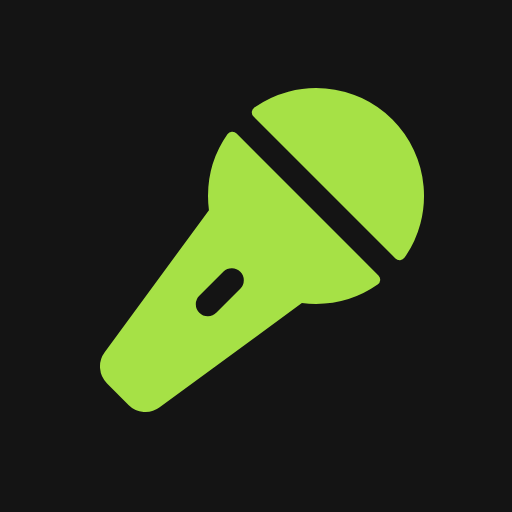
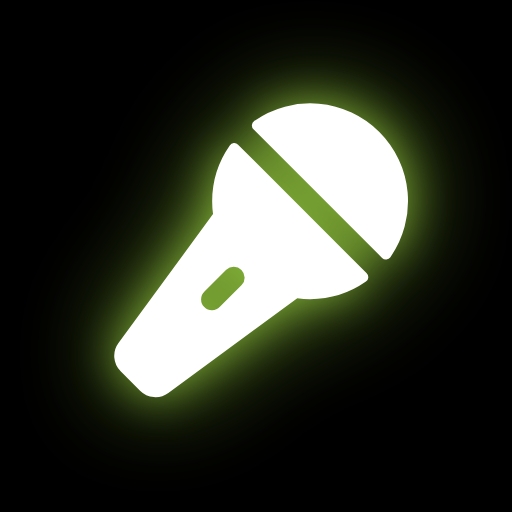
feat(mark,where): a black tile with a neon bloom, and the town the visitor probably wants (P6.1)
**The mark.** Black field, paper microphone, and a neon-green bloom behind it — the same family glyph at the same
geometry, so only the light changed. Two things were wrong before this landed, both about SVG filters:

  - a `stdDeviation` on a `<g>` that also carries `scale(0.08)` is measured in that element's *local* space, so a blur
    of 6 became half a pixel on screen and the "glow" was a green fringe (measured: 3.5 % of the tile greenish);
  - the filter therefore has to sit on a group with no transform, with the scaled glyph nested inside it.
    After the move: 14 % of the tile is green bloom at both 32px and 180px, and the white ink is drawn last so it always
    wins its own shape.

The glyph is 21/32 rather than 24/32 — the margin a 16px tab icon needs before a halo can exist at all, which is also
the padding the mark was asked for. The light-scheme variant inverts the field (paper tile, ink glyph) and keeps the
bloom, dimmed.

**The town (P6.1).** The board is static and cannot know where a request came from; the edge can, for free. `GET /where`
takes the published town ids and returns the one whose country suffix matches `CF-IPCountry`. Every id is `<slug>-<cc>`
by construction, so no table is needed; the answer is cached per country for a day (`vary: CF-IPCountry`), which makes
this one Worker invocation per country per day rather than per visitor. The client asks once, only when the URL named no
[…]

Changed region(s): [[0.1875, 0.125, 0.875, 0.8125]]

diff --git a/web/src/App.tsx b/web/src/App.tsx
@@ -29,6 +29,7 @@ import {
 import {
   addDays,
   dayNumber,
+  defaultTown,
   dayOf,
   monthShort,
   loadIndex,
@@ -68,7 +69,9 @@ export default function App() {
     (async () => {
       try {
         const { manifest, towns } = await loadIndex();
-        const town = manifest.towns.find((t) => t.town === wantedTown) ?? manifest.towns[0];
+        // A town in the URL wins; otherwise the edge's country match; otherwise the first published town.
+        const chosen = wantedTown ?? (await defaultTown(manifest));
+        const town = manifest.towns.find((t) => t.town === chosen) ?? manifest.towns[0];
         const rows = await loadShard(town.shard);
         if (!live) return;
         setPhase({ kind: "ready", loaded: { manifest, towns }, rows, town });
@@ -97,24 +100,19 @@ export default function App() {
           if (changed) writeNames(next);
           return changed ? next : current;
         });
-        // The artist page's way back returns to this town, not to the first published one.
-        // A link can name a town the index does not publish; the board falls back to the first one, and the URL is
-        // rewritten to match rather than claiming a town that is not on screen.
-        if (town.town !== wantedTown) {
+        // A link that names a town the index does not publish is rewritten to the one on screen — the URL must not
+        // claim a town that is not there. A board that simply *chose* a town (from the edge's country, or the first
+        // published) leaves the URL clean: that choice belongs to the visitor's location, not to the link.
+        if (wantedTown && town.town !== wantedTown) {
           const url = new URL(location.href);
           url.searchParams.set("town", town.town);
           history.replaceState(null, "", url);
         }
+        // The artist page's way back returns to this town, not to the first published one.
         try {
           sessionStorage.setItem("lineup.town", town.town);
         } catch {
           /* storage refused: back falls back to the root */
-        }
-        if (wantedTown !== town.town) {
-          const url = new URL(location.href);
-          url.searchParams.set("town", town.town);
-          history.replaceState(null, "", url);
-          setWantedTown(town.town);
         }
       } catch (err) {
         if (!live) return;

diff --git a/src/worker.ts b/src/worker.ts
@@ -72,6 +72,32 @@ app.get("/readyz", async (c) => {
   }
 });
 
+/**
+ * `/where?towns=a-dk,b-se` — which town a visitor should land on.
+ *
+ * The board is static, so it cannot know a country; the edge can, for free. The client sends the published town ids
+ * and gets back the one whose country suffix matches `CF-IPCountry` (every id is `<slug>-<cc>` by construction), or the
+ * first one when nothing matches. No index read, no state, and the answer is cached per country for a day — so this
+ * costs one Worker invocation per country per day, not per visitor.
+ */
+app.get("/where", (c) => {
+  const country = (c.req.header("cf-ipcountry") ?? "").toLowerCase();
+  const ids = (c.req.query("towns") ?? "")
+    .split(",")
+    .map((id) => id.trim())
+    .filter((id) => id.length > 0 && id.length <= 64)
+    .slice(0, 50);
+  if (ids.length === 0) {
+    return c.json(errorBody("bad_request", "towns is required: the published town ids"), 400);
+  }
+  const match = country ? ids.find((id) => id.endsWith(`-${country}`)) : undefined;
+  return c.json(
+    { town: match ?? ids[0], country: country || null, basis: match ? "country" : "fallback" },
+    200,
+    { "cache-control": "public, max-age=86400", vary: "CF-IPCountry" },
+  );
+});
+
 // The five JSON routes from plan §5.6, plus the calendar feed. Until P5 they answer honestly rather than
 // pretending to be a 404: the board can tell "not mine" from "not yet".
 app.all("/api/v1/*", (c) =>

diff --git a/web/src/lib/indexData.ts b/web/src/lib/indexData.ts
@@ -153,6 +153,26 @@ export async function loadArtistRows(manifest: Manifest, key: string): Promise<A
   return shows;
 }
 
+/**
+ * Which town to open, when the visitor did not name one.
+ *
+ * The edge knows the country from the request; the board cannot. So the board asks once, with its published town ids,
+ * and gets back the one whose country suffix matches — or the first, which is what the board used to do unasked. A
+ * failure here is not an error: no answer simply means the first town, exactly as before.
+ */
+export async function defaultTown(manifest: Manifest): Promise<string | null> {
+  const ids = manifest.towns.map((entry) => entry.town);
+  if (ids.length < 2) return ids[0] ?? null;
+  try {
+    const res = await fetch(`/where?towns=${encodeURIComponent(ids.join(","))}`);
+    if (!res.ok) return ids[0] ?? null;
+    const body = (await res.json()) as { town?: unknown };
+    return typeof body.town === "string" && ids.includes(body.town) ? body.town : (ids[0] ?? null);
+  } catch {
+    return ids[0] ?? null;
+  }
+}
+
 /* ── dates: the window is the manifest's, the day is the row's own ─────────────────────────────────── */
 
 const MONTHS = ["jan", "feb", "mar", "apr", "may", "jun", "jul", "aug", "sep", "oct", "nov", "dec"];

diff --git a/internal/server/where.go b/internal/server/where.go
@@ -1,0 +1,57 @@
+package server
+
+// Which town a visitor should land on, by country.
+//
+// The board is static, so it cannot know where a request came from; the edge can. The client sends the published town
+// ids, and the answer is the one whose country suffix matches the request's country — every id is `<slug>-<cc>` by
+// construction, so no table is needed. The Worker reads `CF-IPCountry`; this server reads the same header, which is
+// what lets the contract hold both runtimes to one answer, and a header set by a test is what makes the branch
+// testable without an edge.
+
+import (
+	"net/http"
+	"strings"
+)
+
+func (s *server) where(w http.ResponseWriter, r *http.Request) {
+	country := strings.ToLower(strings.TrimSpace(r.Header.Get("CF-IPCountry")))
+	raw := strings.Split(r.URL.Query().Get("towns"), ",")
+	ids := make([]string, 0, len(raw))
+	for _, id := range raw {
+		id = strings.TrimSpace(id)
+		if id == "" || len(id) > 64 {
+			continue
+		}
+		ids = append(ids, id)
+		if len(ids) == 50 {
+			break
+		}
+	}
+	if len(ids) == 0 {
+		writeError(w, http.StatusBadRequest, "bad_request", "towns is required: the published town ids")
+		return
+	}
+	town, basis := ids[0], "fallback"
+	if country != "" {
+		for _, id := range ids {
+			if strings.HasSuffix(id, "-"+country) {
+				town, basis = id, "country"
+				break
+			}
+		}
+	}
+	w.Header().Set("Cache-Control", "public, max-age=86400")
+	w.Header().Set("Vary", "CF-IPCountry")
+	writeJSON(w, http.StatusOK, map[string]any{
+		"town":    town,
+		"country": orNil(country),
+		"basis":   basis,
+	})
+}
+
+func orNil(value string) any {
+	if value == "" {
+		return nil
+	}
+	return value
+}

diff --git a/internal/server/where_test.go b/internal/server/where_test.go
@@ -1,0 +1,50 @@
+package server
+
+import (
+	"encoding/json"
+	"net/http"
+	"net/http/httptest"
+	"testing"
+)
+
+func whereFor(t *testing.T, handler http.Handler, country, towns string) (int, map[string]any) {
+	t.Helper()
+	rec := httptest.NewRecorder()
+	req := httptest.NewRequest(http.MethodGet, "/where?towns="+towns, nil)
+	if country != "" {
+		req.Header.Set("CF-IPCountry", country)
+	}
+	handler.ServeHTTP(rec, req)
+	var body map[string]any
+	_ = json.Unmarshal(rec.Body.Bytes(), &body)
+	return rec.Code, body
+}
+
+func TestWherePicksTheTownsCountry(t *testing.T) {
+	handler := newServer(t, buildIndex(t))
+	towns := "copenhagen-dk,stockholm-se"
+
+	code, body := whereFor(t, handler, "SE", towns)
+	if code != http.StatusOK || body["town"] != "stockholm-se" || body["basis"] != "country" {
+		t.Fatalf("SE → %d %v", code, body)
+	}
+	code, body = whereFor(t, handler, "dk", towns)
+	if body["town"] != "copenhagen-dk" || body["basis"] != "country" {
+		t.Fatalf("dk → %v", body)
+	}
+
+	// A country the index does not cover, and no header at all: the first published town, and it says so.
+	for _, tc := range []struct{ country, label string }{{"JP", "JP"}, {"", "no header"}} {
+		code, body = whereFor(t, handler, tc.country, towns)
+		if code != http.StatusOK || body["town"] != "copenhagen-dk" || body["basis"] != "fallback" {
+			t.Fatalf("%s → %d %v", tc.label, code, body)
+		}
+	}
+}
+
+func TestWhereRefusesAnEmptyList(t *testing.T) {
+	handler := newServer(t, buildIndex(t))
+	if code, _ := whereFor(t, handler, "SE", ""); code != http.StatusBadRequest {
+		t.Fatalf("empty towns = %d, want 400", code)
+	}
+}

diff --git a/internal/server/server.go b/internal/server/server.go
@@ -55,6 +55,7 @@ func Handler(opts Options) (http.Handler, error) {
 	mux.HandleFunc("GET /towns.json", s.townsFile)
 	mux.HandleFunc("GET /towns/", s.shard)
 	mux.HandleFunc("GET /data/", s.townData)
+	mux.HandleFunc("GET /where", s.where)
 	mux.HandleFunc("/api/v1/", s.apiNotYet)
 	mux.HandleFunc("GET /calendar/{file}", s.calendar)
 	mux.HandleFunc("/", s.web)

diff --git a/docs/calendar.md b/docs/calendar.md
@@ -61,5 +61,6 @@ no line over 75 octets. The *contents* differ by design, because each runtime re
   every `DTEND` after its `DTSTART`, every event with `LOCATION` and `URL`, `X-WR-CALNAME: Messer Lineup — København`.
 - In a browser: the panel's token decodes to the board on screen, and the feed it points at answers 200 `text/calendar`.
 
-**Not verified:** that Apple Calendar and Google Calendar import it without complaint. The structure is validated by a
-third-party parser and by the RFC's own rules, but an import in a real client is the check that only a human can run.
+**Confirmed in a real client:** Jakob subscribed to the live feed in Apple Calendar and it imported without complaint
+(2026-11-18). Google Calendar is still unverified — the structure is the same file a strict parser accepted, but "same
+file" is not the same as "imported".
